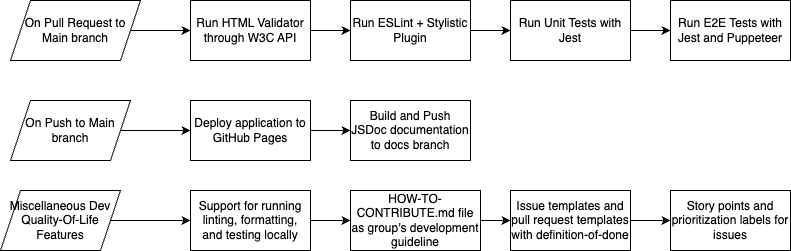
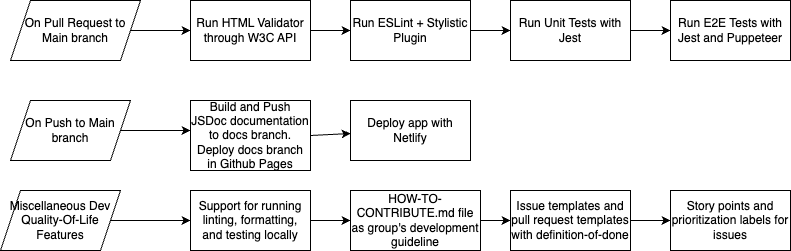
finalize cicd docs changes

Changed region(s): [[0.2427, 0.3904, 0.3944, 0.6972], [0.3944, 0.4462, 0.6068, 0.6135]]

diff --git a/admin/cipipeline/final.md b/admin/cipipeline/final.md
@@ -23,9 +23,9 @@
 5. Test Coverage. Runs the [Jest Coverage Report](https://github.com/marketplace/actions/jest-coverage-report) action which summarizes test coverage as a comment in the attempted pull request. Run ```npm run test:coverage``` to generate more detailed coverage report locally.
 
 ### On every push into main:
-1. Deployment to Github Pages. Builds latest main branch and deploys to Github Pages.
+1. JSDoc Documentation Generation. A separate docs branch will be created holding information for a documentation website. This branch is deployed to Github Pages.
 
-2. JSDoc Documentation Generation. A separate docs branch will be created that holds docs/, which contains a webpage that displays all documentation for JS logic.
+2. App Deployment with Netlify.
 
 ### Miscellaneous Dev Quality-Of-Life Features
 
